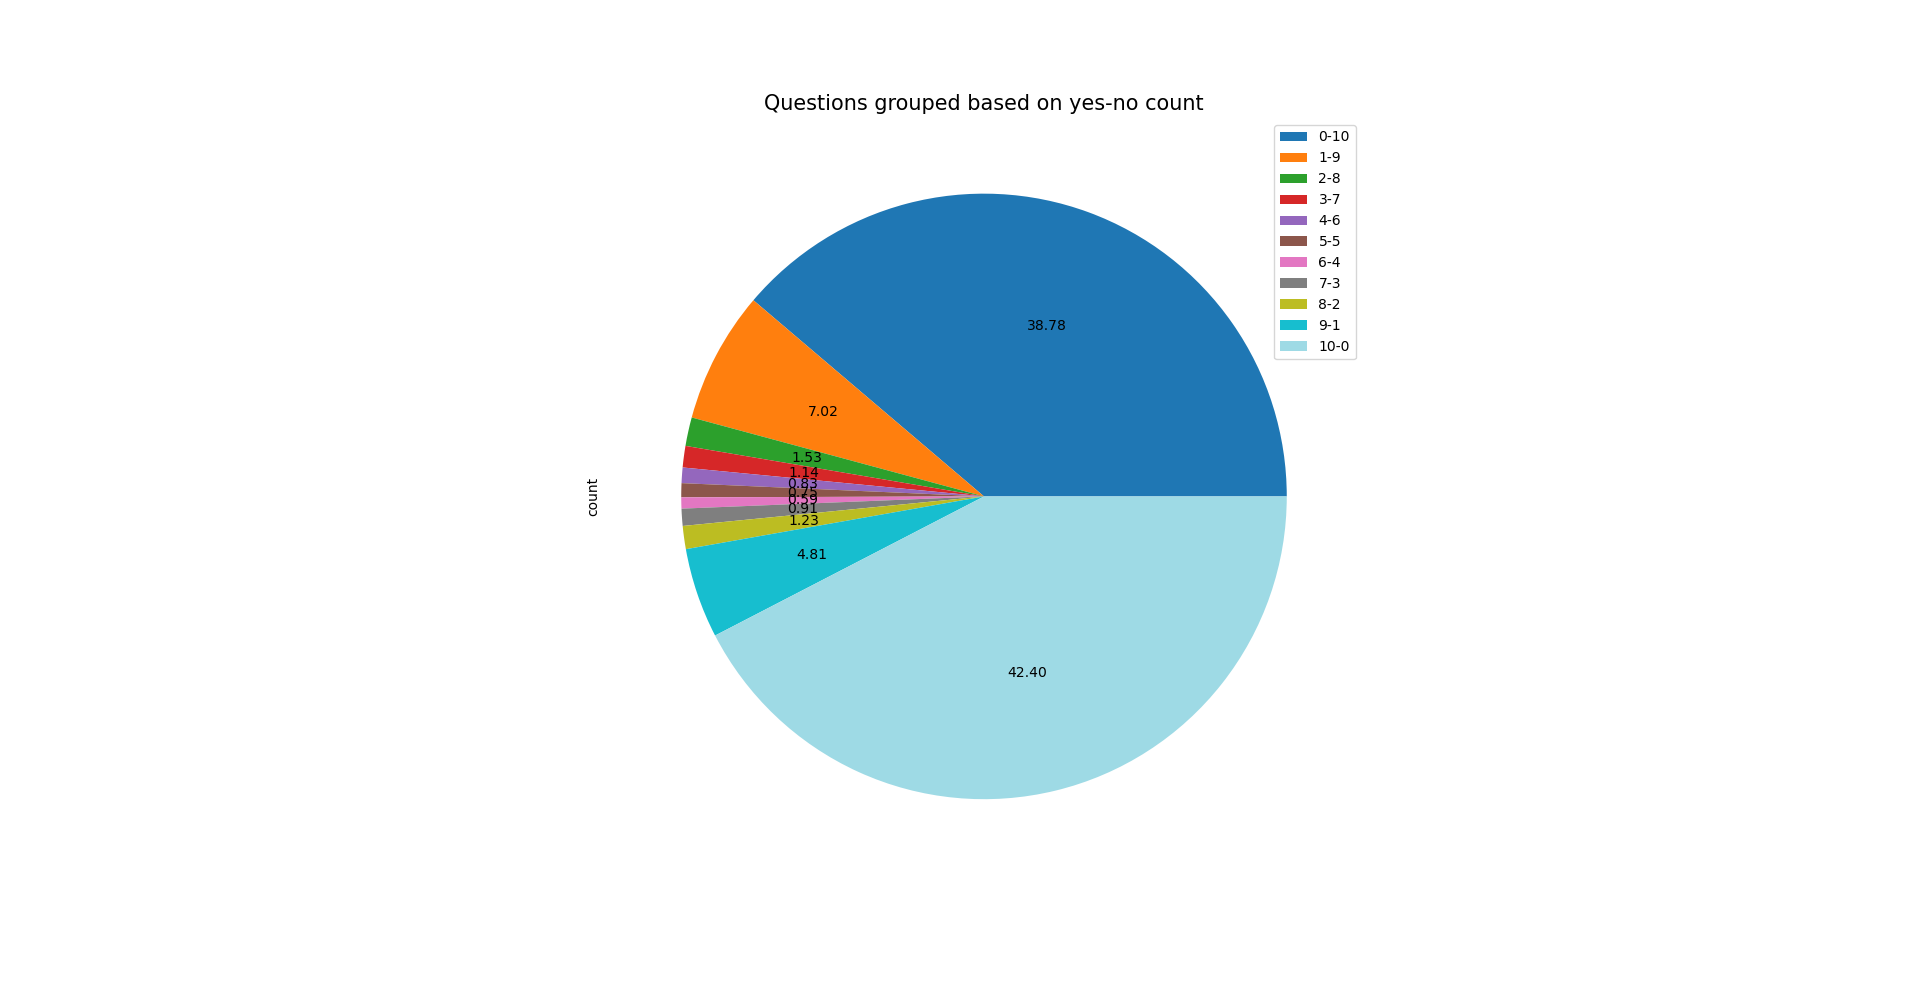
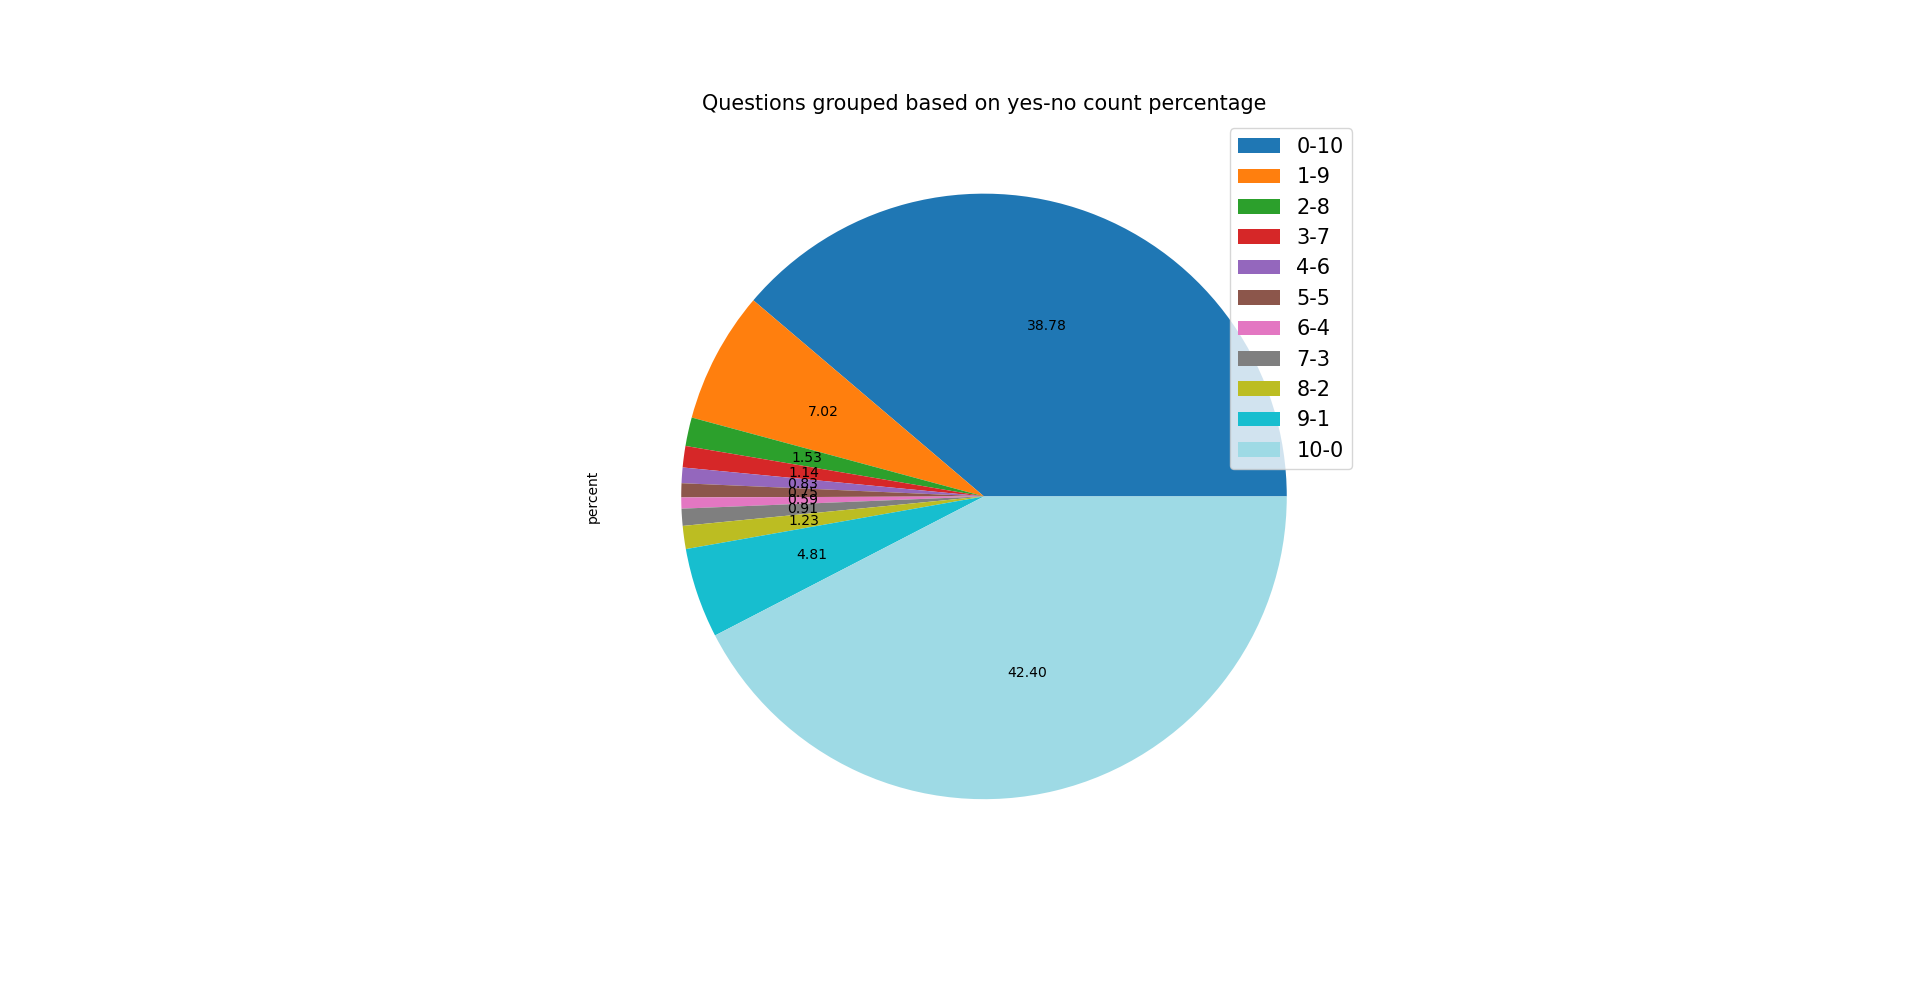
Update task 1d

Changed region(s): [[0.375, 0.0916, 0.7188, 0.4883], [0.2812, 0.4883, 0.3125, 0.5188]]

diff --git a/main_scripts/task_1d.py b/main_scripts/task_1d.py
@@ -51,10 +51,10 @@ question_groups_df = pd.DataFrame({"yes-no": question_groups[:, 0],
                                    "count": question_groups[:, 1],
                                    "percent": question_groups[:, 2]})
 
-question_groups_df = question_groups_df.astype({'count': int})
-ax = question_groups_df.plot.pie(y='count', autopct='%.2f', colormap=cs, labels=None)
-ax.set_title("Questions grouped based on yes-no count", fontsize=fs)
-ax.legend(question_groups_df['yes-no'])
+question_groups_df = question_groups_df.astype({'count': int, 'percent': float})
+ax = question_groups_df.plot.pie(y='percent', autopct='%.2f', colormap=cs, labels=None)
+ax.set_title("Questions grouped based on yes-no count percentage", fontsize=fs)
+ax.legend(question_groups_df['yes-no'], prop={'size': fs})
 
 
 # Export data to csv file
